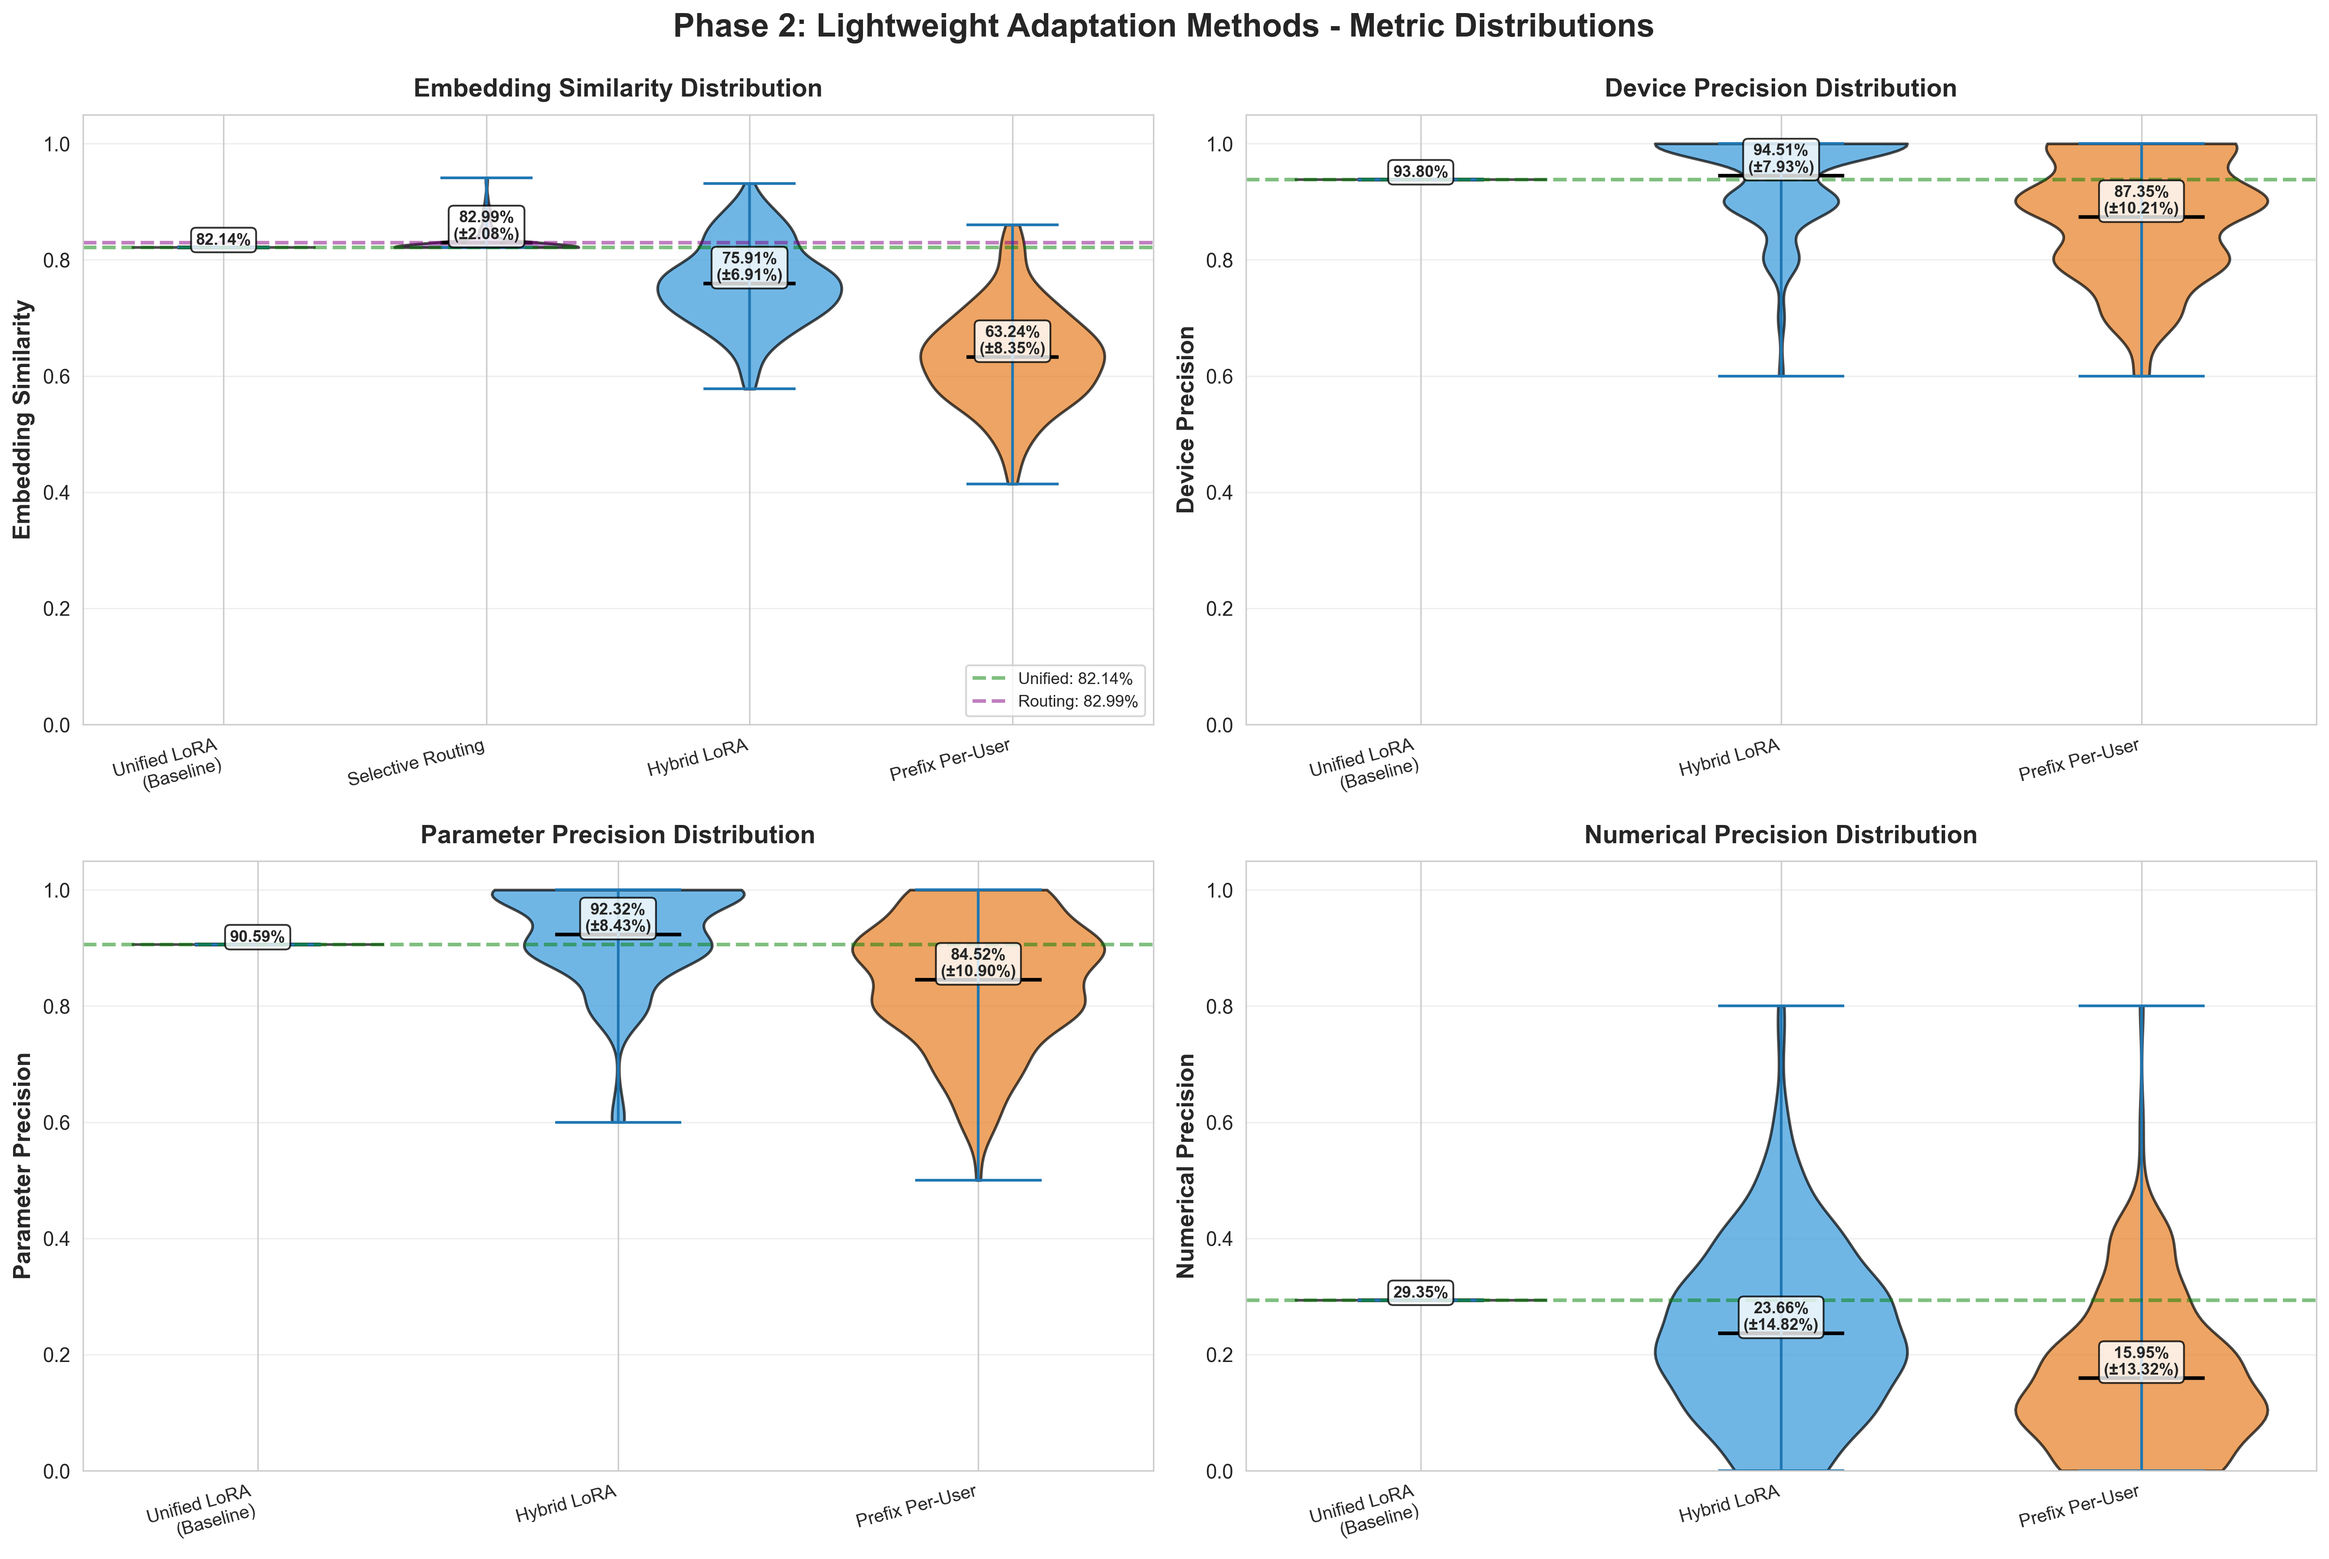
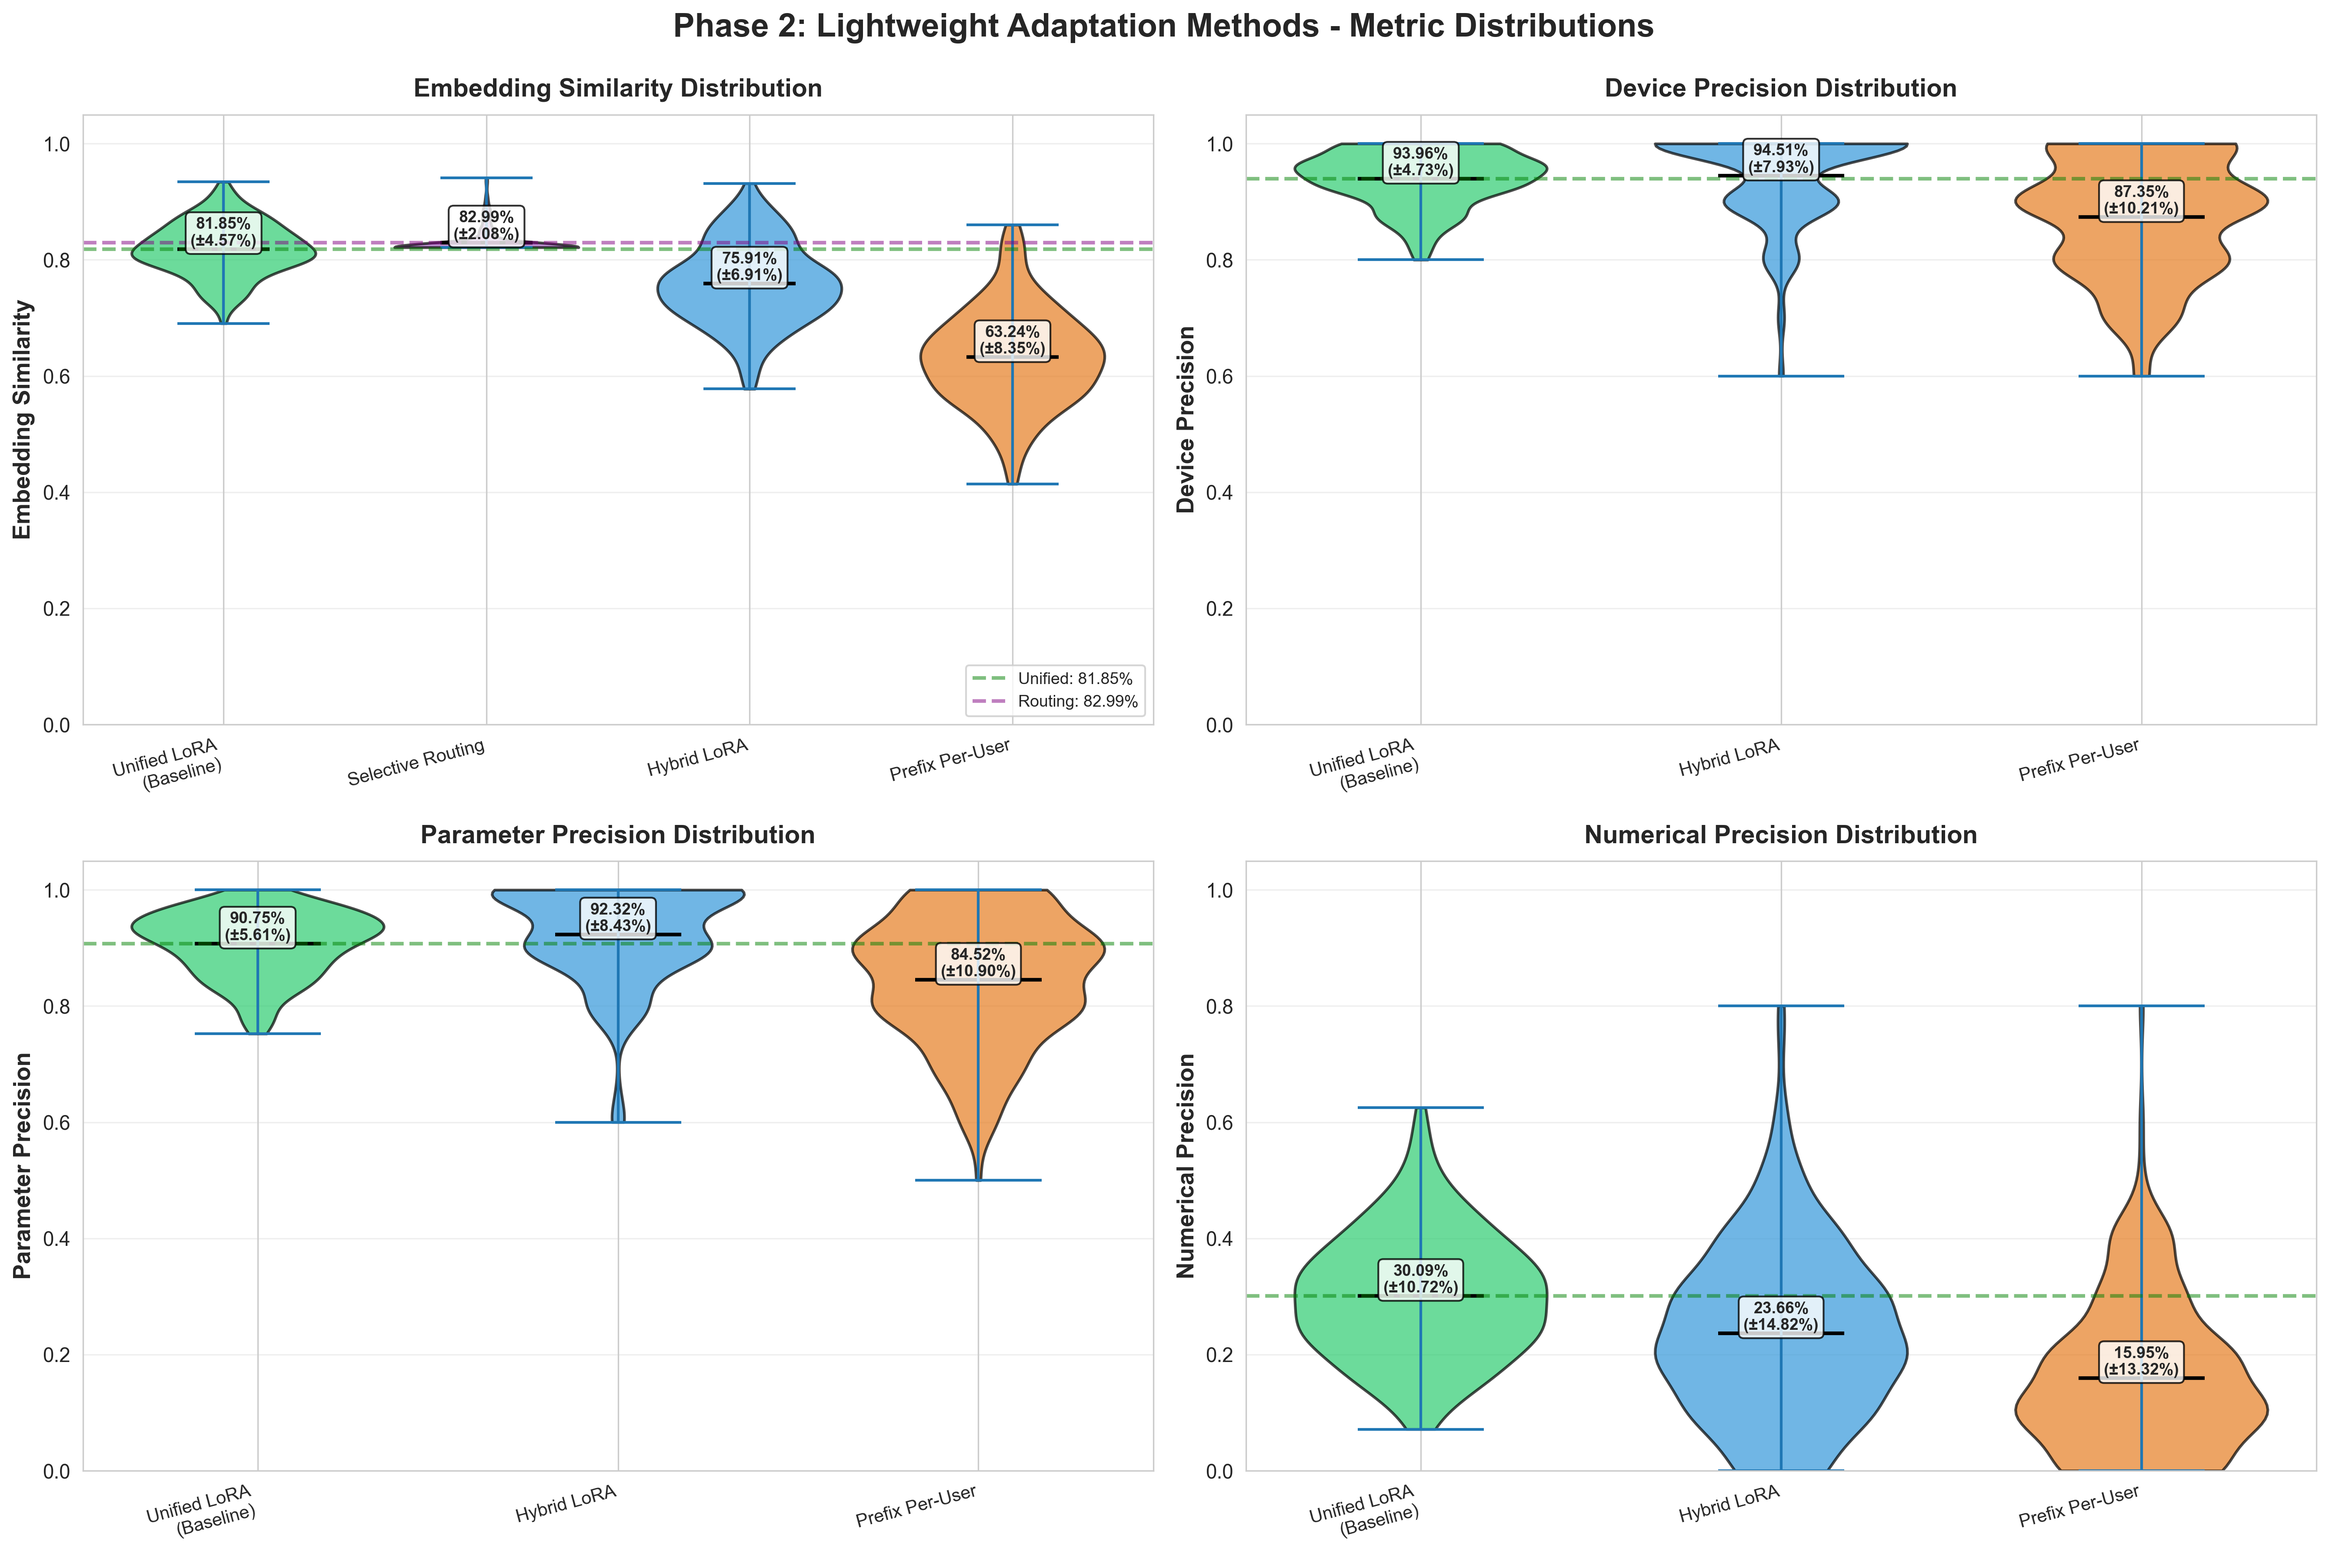
newplots

diff --git a/scripts/phase1_violin_plots.py b/scripts/phase1_violin_plots.py
@@ -21,32 +21,35 @@ def load_results():
 
     data = []
 
-    # 1. Unified LoRA - single score replicated
-    unified_path = results_dir / "unified" / "unified_results.json"
-    if unified_path.exists():
-        with open(unified_path) as f:
-            unified = json.load(f)
-            # Replicate the single score to show as a point
-            data.append({
-                'method': 'Unified LoRA',
-                'embedding_similarity': unified['metrics']['embedding_similarity'],
-                'device_precision': unified['metrics']['device_precision'],
-                'param_precision': unified['metrics']['param_precision'],
-                'numerical_precision': unified['metrics']['numerical_precision']
-            })
+    # 1. Unified LoRA - per-persona results
+    unified_per_persona_path = results_dir / "unified" / "per_persona_results.json"
+    if unified_per_persona_path.exists():
+        with open(unified_per_persona_path) as f:
+            unified_per_persona = json.load(f)
+            for persona_id, persona_data in unified_per_persona.items():
+                metrics = persona_data['metrics']
+                data.append({
+                    'method': 'Unified LoRA',
+                    'embedding_similarity': metrics['embedding_similarity'],
+                    'device_precision': metrics['device_precision'],
+                    'param_precision': metrics['param_precision'],
+                    'numerical_precision': metrics['numerical_precision']
+                })
 
-    # 2. Baseline (no adaptation) - single score
-    baseline_path = results_dir / "baseline" / "baseline_results.json"
-    if baseline_path.exists():
-        with open(baseline_path) as f:
-            baseline = json.load(f)
-            data.append({
-                'method': 'Baseline\n(No Adaptation)',
-                'embedding_similarity': baseline['metrics']['embedding_similarity'],
-                'device_precision': baseline['metrics']['device_precision'],
-                'param_precision': baseline['metrics']['param_precision'],
-                'numerical_precision': baseline['metrics']['numerical_precision']
-            })
+    # 2. Baseline (no adaptation) - per-persona results
+    baseline_per_persona_path = results_dir / "baseline" / "per_persona_results.json"
+    if baseline_per_persona_path.exists():
+        with open(baseline_per_persona_path) as f:
+            baseline_per_persona = json.load(f)
+            for persona_id, persona_data in baseline_per_persona.items():
+                metrics = persona_data['metrics']
+                data.append({
+                    'method': 'Baseline\n(No Adaptation)',
+                    'embedding_similarity': metrics['embedding_similarity'],
+                    'device_precision': metrics['device_precision'],
+                    'param_precision': metrics['param_precision'],
+                    'numerical_precision': metrics['numerical_precision']
+                })
 
     # 3. Per-Persona LoRA - per-persona distributions
     personalized_path = results_dir / "personalized" / "personalized_summary.json"
@@ -174,19 +177,6 @@ def create_violin_plots(df):
         # Style mean lines
         parts['cmeans'].set_color('black')
         parts['cmeans'].set_linewidth(2)
-
-        # Add scatter points for methods with single values (Unified, Baseline)
-        for i, method in enumerate(available_methods):
-            method_data = plot_df[plot_df['method'] == method][metric_col]
-            if len(method_data) == 1:
-                # Single point - make it prominent
-                ax.scatter([i], method_data, color=colors.get(method, '#95a5a6'),
-                          s=200, zorder=3, edgecolors='black', linewidth=2, marker='D')
-            elif len(method_data) <= 100:
-                # Small sample - add jittered points
-                jitter = np.random.normal(0, 0.04, size=len(method_data))
-                ax.scatter([i]*len(method_data) + jitter, method_data,
-                          alpha=0.3, s=20, color=colors.get(method, '#95a5a6'))
 
         # Add mean value annotations
         for i, method in enumerate(available_methods):

diff --git a/scripts/phase2_violin_plots.py b/scripts/phase2_violin_plots.py
@@ -21,19 +21,19 @@ def load_results():
 
     data = []
 
-    # 1. Unified LoRA - baseline for comparison
-    unified_path = results_dir / "unified" / "unified_results.json"
-    if unified_path.exists():
-        with open(unified_path) as f:
-            unified = json.load(f)
-            # Replicate the single score for all 200 personas to show as baseline
-            for i in range(200):
+    # 1. Unified LoRA - baseline for comparison (per-persona results)
+    unified_per_persona_path = results_dir / "unified" / "per_persona_results.json"
+    if unified_per_persona_path.exists():
+        with open(unified_per_persona_path) as f:
+            unified_per_persona = json.load(f)
+            for persona_id, persona_data in unified_per_persona.items():
+                metrics = persona_data['metrics']
                 data.append({
                     'method': 'Unified LoRA\n(Baseline)',
-                    'embedding_similarity': unified['metrics']['embedding_similarity'],
-                    'device_precision': unified['metrics']['device_precision'],
-                    'param_precision': unified['metrics']['param_precision'],
-                    'numerical_precision': unified['metrics']['numerical_precision']
+                    'embedding_similarity': metrics['embedding_similarity'],
+                    'device_precision': metrics['device_precision'],
+                    'param_precision': metrics['param_precision'],
+                    'numerical_precision': metrics['numerical_precision']
                 })
 
     # 2. Hybrid LoRA - cluster + persona training
